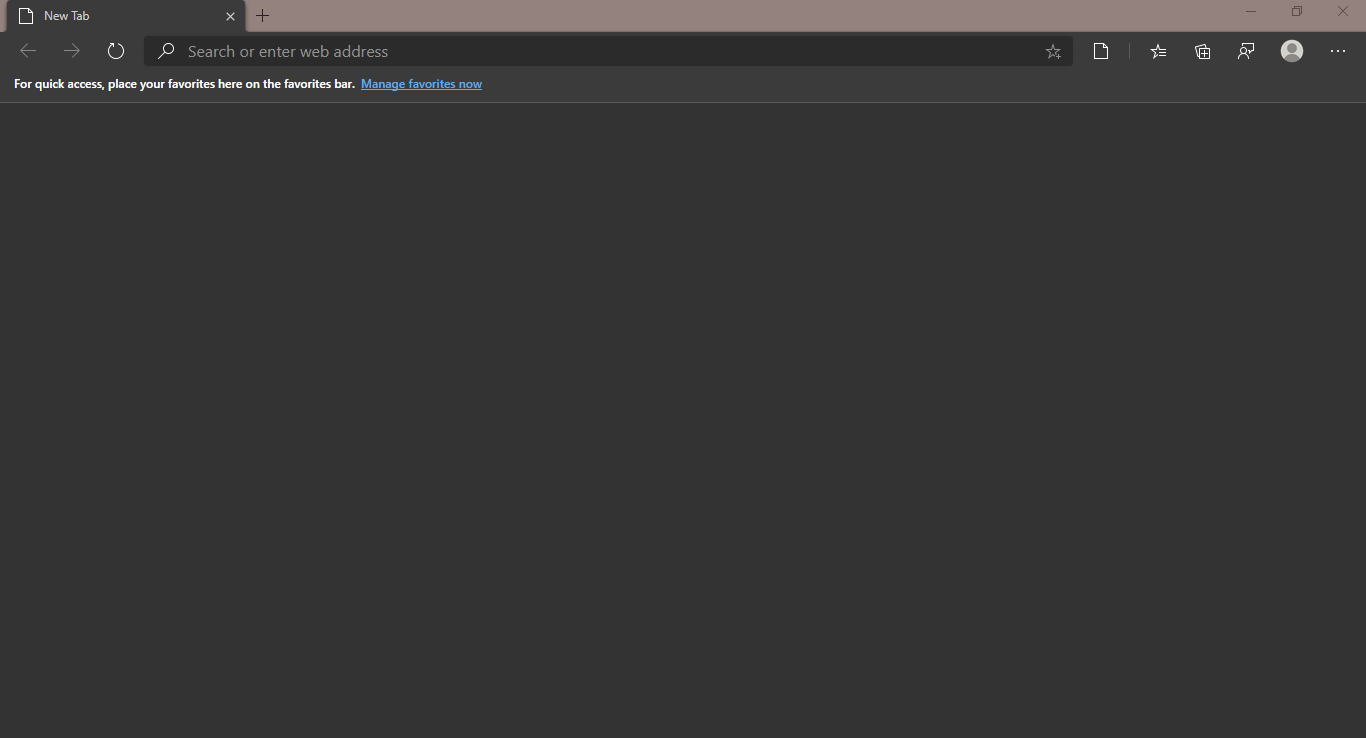
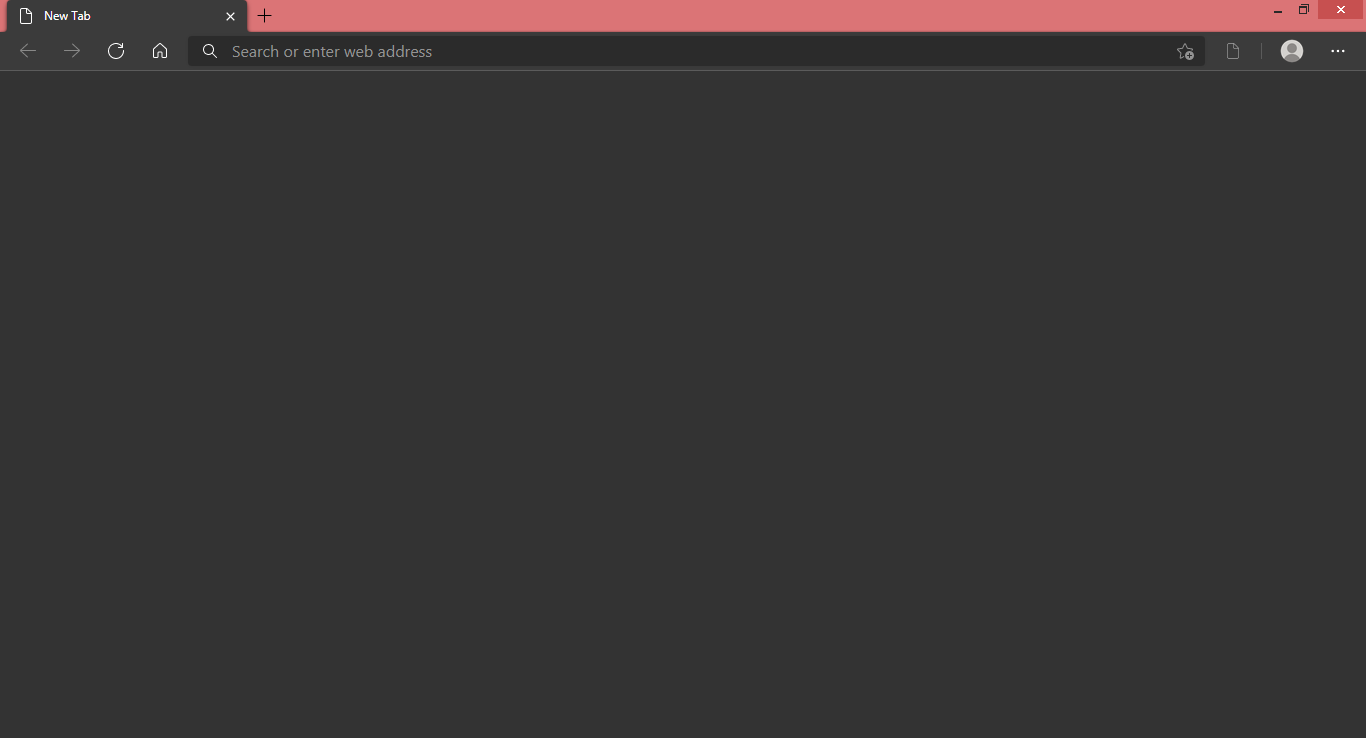
update to mv3
- update icons
- update screenshots
- remove background script
- remove permissions

Changed region(s): [[0.0, 0.0, 1.0, 0.1247], [0.0, 0.0, 0.0615, 0.0312]]

diff --git a/index.js b/index.js
@@ -3,11 +3,9 @@ document.title = chrome.i18n.getMessage("tabTitle");
 
 // Set favicon
 function updateFavicon(e) {
-    let color = e.matches ? "light" : "dark";
-    document.querySelector('link[rel="icon"]').href = `icons/tab-${color}.ico`;
-    // notify icon updated, only works if newtab page is open.
-    chrome.runtime.sendMessage({ message: "update-icon" });
+    const color = e.matches ? "light" : "dark";
+    document.querySelector('link[rel="icon"]').href = `icons/favicon-${color}.ico`;
 }
-const darkModeMQL = window.matchMedia("(prefers-color-scheme: dark)");
-darkModeMQL.onchange = updateFavicon;
-updateFavicon(darkModeMQL);
+const darkMode = window.matchMedia("(prefers-color-scheme: dark)");
+darkMode.addEventListener("change", updateFavicon);
+updateFavicon(darkMode);

diff --git a/index.html b/index.html
@@ -1,5 +1,6 @@
 <!DOCTYPE html>
-<link rel="icon" href="icons/tab-dark.ico">
+<title></title>
+<link rel="icon" href="icons/favicon-dark.ico">
 <script src="index.js"></script>
 <style>
 html,
